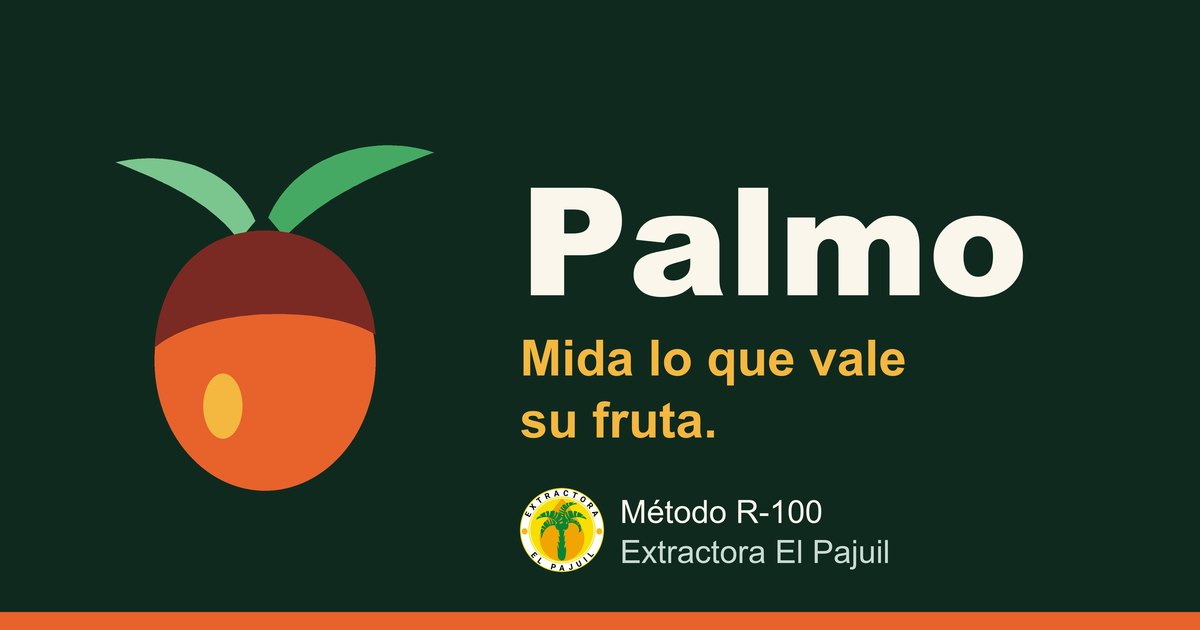
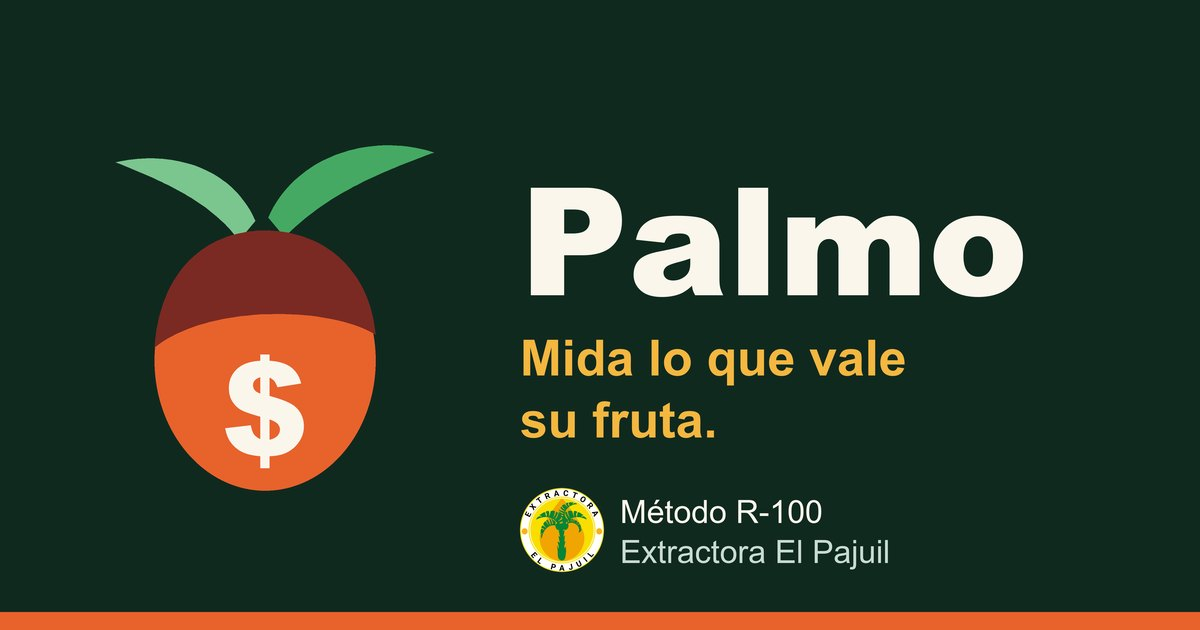
Palmo: el fruto lleva el signo de pesos y el subtítulo dice «TEA de pago»

Changed region(s): [[0.1542, 0.5429, 0.2775, 0.754]]

diff --git a/resources/views/livewire/fruit-purchasing/tea-calculator.blade.php b/resources/views/livewire/fruit-purchasing/tea-calculator.blade.php
@@ -63,7 +63,7 @@
                     <span aria-hidden="true">palm</span>
                     <x-palmo.symbol class="ml-0.5 h-[3.1rem] w-[3.1rem] translate-y-[0.06em] sm:h-[5.6rem] sm:w-[5.6rem]" />
                 </h1>
-                <p class="palmo-display mt-3 text-3xl font-bold leading-tight text-petrol-900 sm:mt-5 sm:text-4xl">¿Cuánto vale su fruta?</p>
+                <p class="palmo-display mt-3 text-3xl font-bold leading-tight text-petrol-900 sm:mt-5 sm:text-4xl">TEA de pago</p>
             </div>
             <div class="flex items-center gap-3 rounded-2xl bg-white/70 px-4 py-3">
                 <img src="{{ asset('images/logo.png') }}" alt="Extractora El Pajuil" width="512" height="512" class="h-14 w-14 shrink-0 sm:h-16 sm:w-16">

diff --git a/resources/views/components/palmo/symbol.blade.php b/resources/views/components/palmo/symbol.blade.php
@@ -13,5 +13,5 @@
     <path d="M57 31 C 50 15, 32 9, 14 13 C 29 19, 43 25, 52 37 Z" fill="{{ $dark ? '#7BC58F' : '#45A963' }}"/>
     <ellipse cx="60" cy="74" rx="34" ry="40" fill="#E8622C"/>
     <path d="M26 70 C 28 44, 44 34, 60 34 C 77 34, 92 45, 94 66 C 79 57, 42 57, 26 70 Z" fill="{{ $dark ? '#7A2A22' : '#5A1F1B' }}"/>
-    <ellipse cx="47" cy="88" rx="6" ry="10" fill="#F4B740"/>
+    <text x="60" y="103" text-anchor="middle" font-family="'Baloo 2', system-ui, sans-serif" font-weight="800" font-size="40" fill="#FBF6EC">$</text>
 </svg>

diff --git a/tests/Feature/R100PublicPageTest.php b/tests/Feature/R100PublicPageTest.php
@@ -39,6 +39,7 @@ it('abre la calculadora R-100 sin iniciar sesión', function () {
         ->assertSee('<title>Palmo — ¿Cuánto vale su fruta?</title>', false)
         ->assertSee('<span class="sr-only">Palmo</span>', false)
         ->assertSee('Método R-100 de la')
+        ->assertSee('TEA de pago')
         ->assertSee('Director Franklin Alvarez')
         ->assertSee('© '.now()->year.' Palmo · Método R-100 de la Extractora El Pajuil')
         ->assertSee('Desarrollador Alexander Lopez')
